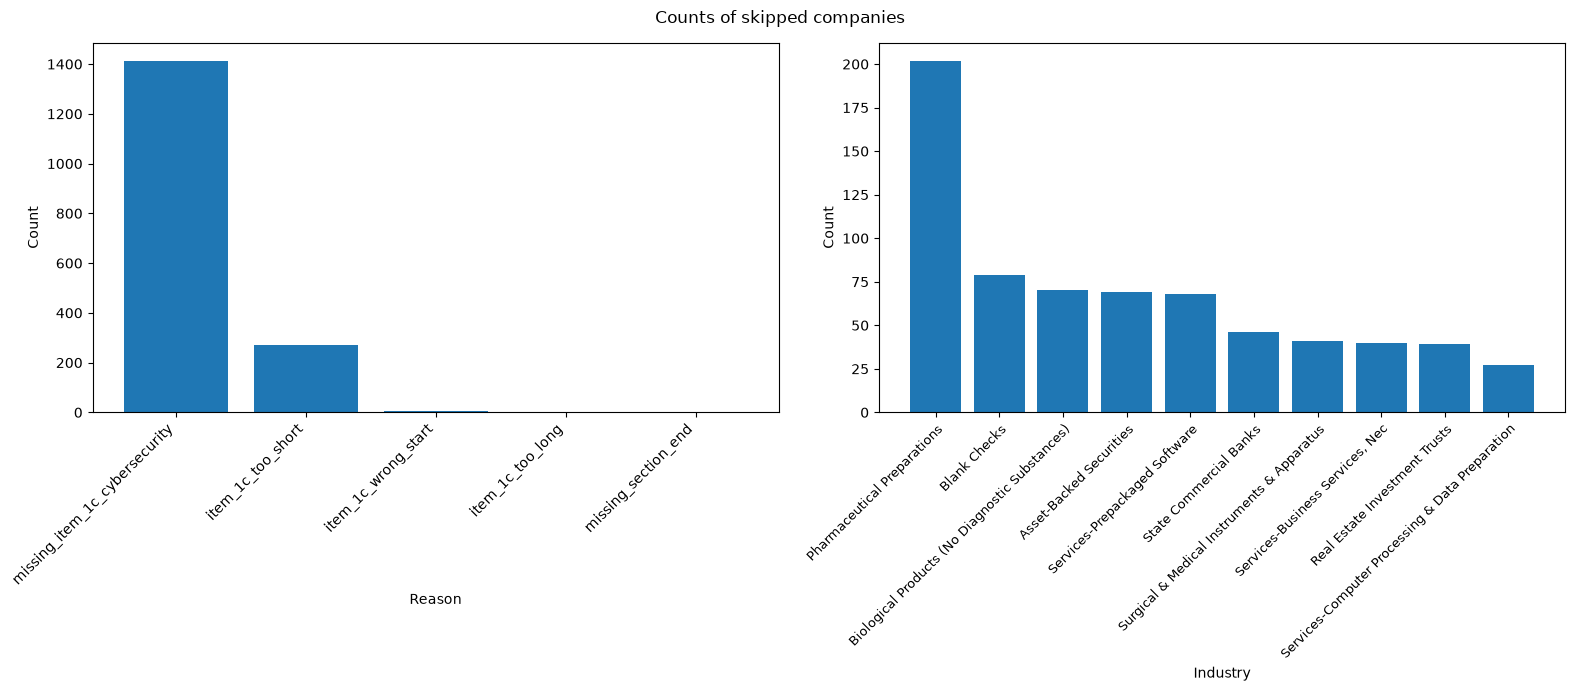
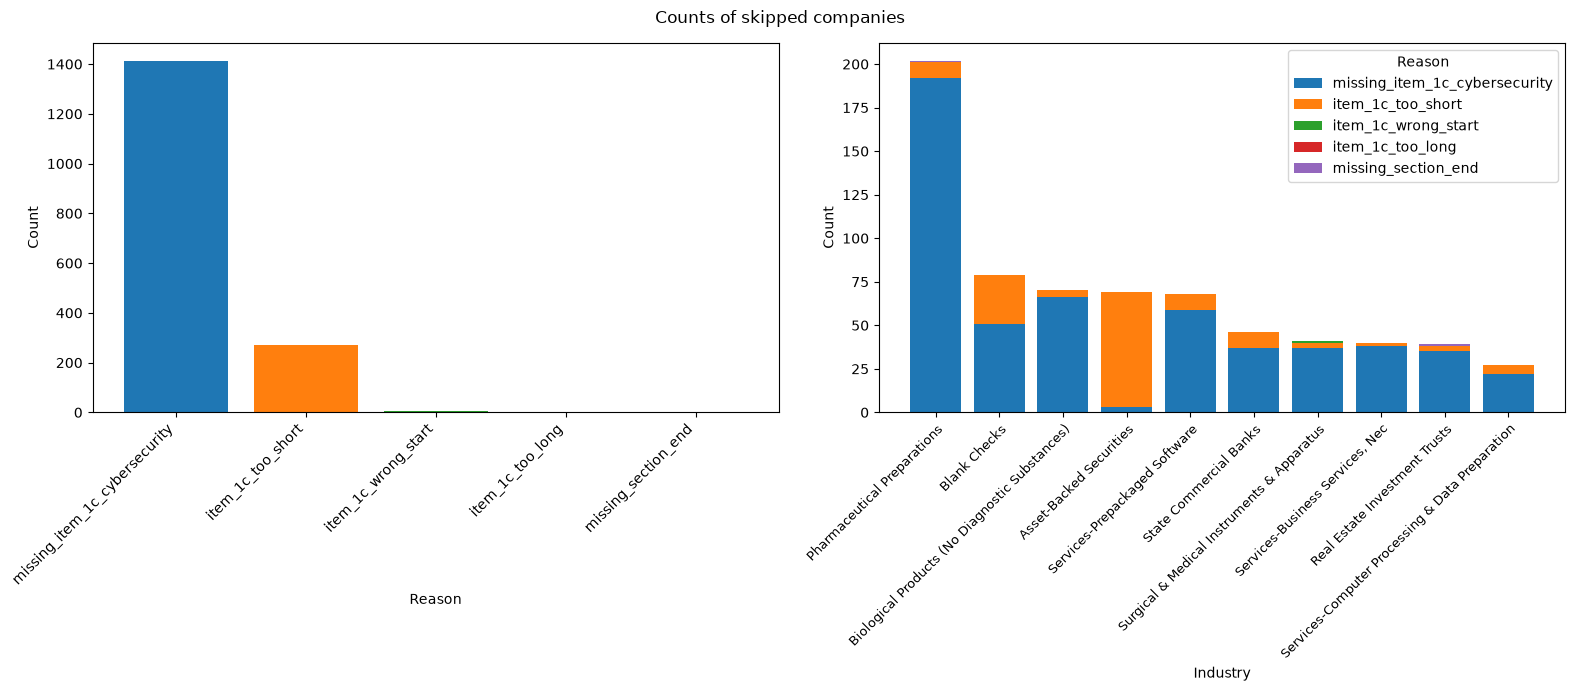
Changed industry chart to stacked chart

diff --git a/post_processor.py b/post_processor.py
@@ -124,15 +124,25 @@ class PostProcessor:
         fig, (ax_reason, ax_industry) = plt.subplots(1, 2, figsize=(16, 7))
         fig.suptitle("Counts of skipped companies")
 
-        ax_reason.bar(reason_counts.index, reason_counts.values)
+        reason_colors = {reason: plt.cm.tab10(i) for i, reason in enumerate(reason_counts.index)}
+
+        ax_reason.bar(reason_counts.index, reason_counts.values, color=[reason_colors[r] for r in reason_counts.index])
         ax_reason.set_xlabel("Reason")
         ax_reason.set_ylabel("Count")
         plt.setp(ax_reason.get_xticklabels(), rotation=45, ha='right')
 
-        industry_labels = [str(name).title() for name in sorted_industry_counts.index]
-        ax_industry.bar(industry_labels, sorted_industry_counts.values)
+        industry_by_reason = grouped_by_skipped_companies.pivot_table(
+            index='industry', columns='reason', values='skipped_companies_count', aggfunc='sum', fill_value=0
+        ).reindex(index=sorted_industry_counts.index, columns=reason_counts.index, fill_value=0)
+        industry_labels = [str(name).title() for name in industry_by_reason.index]
+        bottom = np.zeros(len(industry_by_reason))
+        for reason in industry_by_reason.columns:
+            values = industry_by_reason[reason].values
+            ax_industry.bar(industry_labels, values, bottom=bottom, label=reason, color=reason_colors[reason])
+            bottom += values
         ax_industry.set_xlabel("Industry")
         ax_industry.set_ylabel("Count")
+        ax_industry.legend(title="Reason")
         plt.setp(ax_industry.get_xticklabels(), rotation=45, ha='right', rotation_mode='anchor', fontsize=9)
 
         fig.tight_layout()
